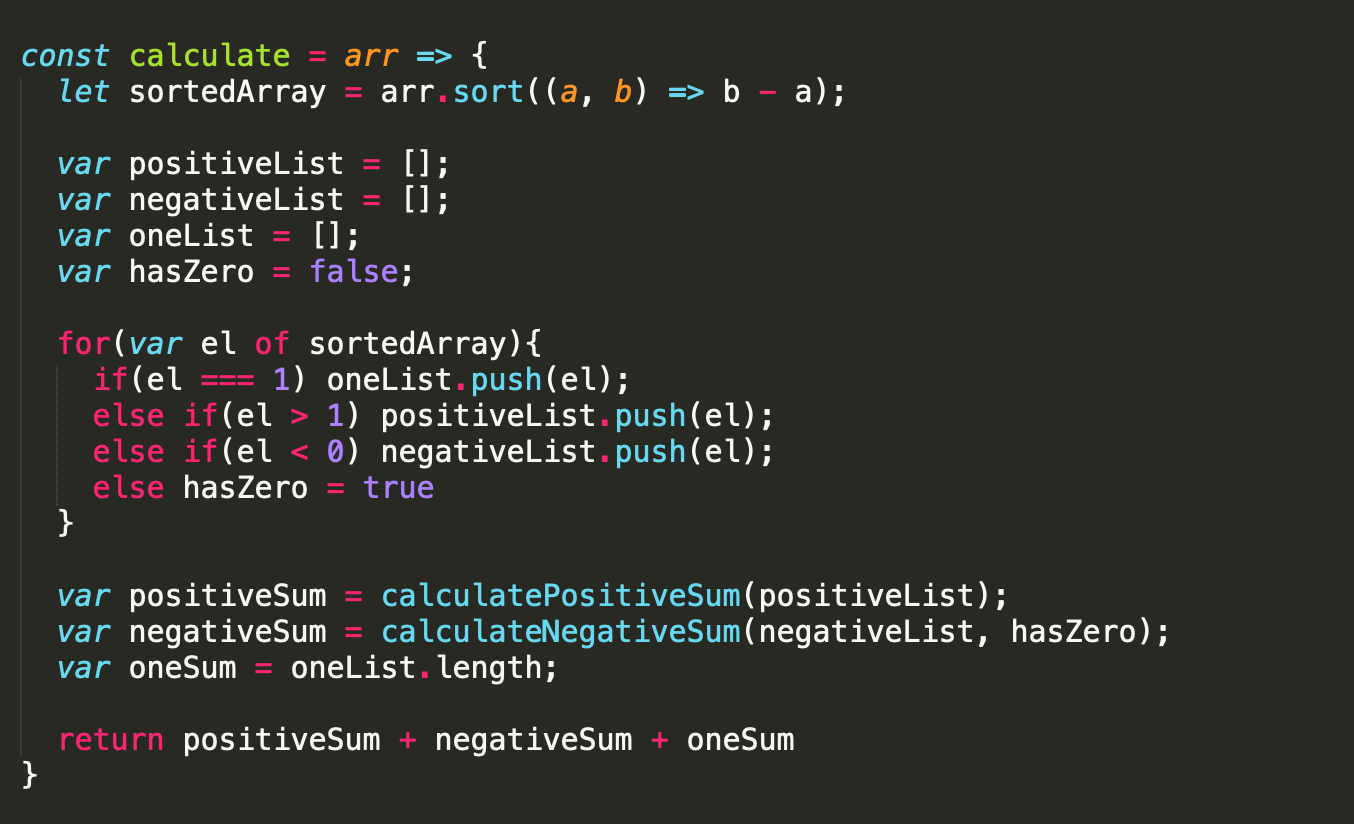
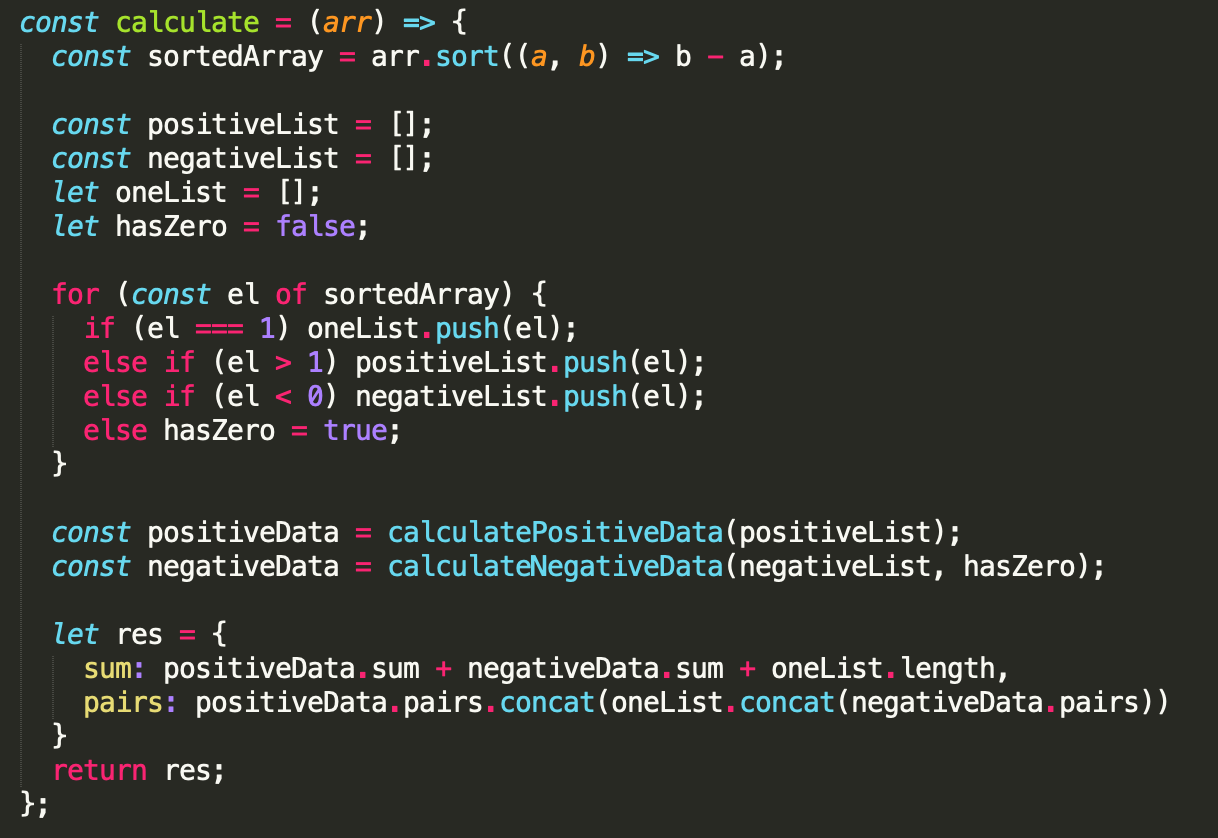
finished calculator

Changed region(s): [[0.0, 0.0, 0.9672, 0.8495], [0.0312, 0.8799, 0.5928, 0.9405], [0.0, 0.9405, 0.0312, 0.9709]]

diff --git a/src/data/solution.js b/src/data/solution.js
@@ -5,20 +5,31 @@ const solution = {
       title: 'Math',
       paragraphs: {
         p1: 'To solve this test I took in consideration some  math principles.',
-        p2: 'If C is a Positive Integer and C = (A x B), with A and B, both integers and greater than 1. Then, C >= A + B.',
-        p3: 'If A , B and C are both Positive Integers and A < B < C. Then (A x B) < ( B x C )',
-        p4: 'If A is a Positive Integer, A + 1 > (A x 1).',
-        p5: 'if A and B are Negative Numbers, C = A x B is a Positive Number',
-        p6: 'if A is a Negative Number, A * 0  > A . ',
+        p2: '1 - If C is a Positive Integer and C = (A x B), with A and B, both integers and greater than 1. Then, C >= A + B.',
+        p3: '2 - If A , B and C are both Positive Integers and A < B < C. Then (A x B) < ( B x C )',
+        p4: '3 - If A is a Positive Integer, A + 1 > (A x 1).',
+        p5: '4 - if A and B are Negative Numbers, C = A x B is a Positive Number',
+        p6: '5 - if A is a Negative Number, A * 0  > A . ',
       },
     },
     a2: {
+      title: 'Logic',
+      paragraphs: {
+        p0: 'The implementation of the algorithm is an abstraction to express the logic concieved. Here are the thoughs behind the proposed solution.',
+        p1: 'From principle 1 and 2 I took that, in order to maximize the sum, I have to make pairs and multiply the positive numbers from the greatest to the smallest',
+        p2: 'From principle 3 I took that is better to add a single element to 1 than to make a pair and multiply this element by one',
+        p3: 'From principle 4 I took that I should make pairs with the negative numbers, following the same logic used for the positive numbers. I should multiply them in order from greatest to the smallest in a perspective of total quantity or module ',
+        p4: 'From principle 5 I took that is better to multiply a negative by 0 than add them to the sum.',
+        p5: 'Basically the ideal solution should multiply the positive numbers in pairs from the greatests to the smallests, except for the number one which should be added to the sum by itself, and multiply the negative numbers in pairs as well as the positive ones, but thinking that if a single negative element is left unpaired to be added to the sum by itself, it is better to multiply by zero if zero is present on the list.',
+      },
+    },
+    a3: {
       title: 'Algorithm',
       subtitle: 'Calculate Function',
       img: 'images/calculateFunc.png',
       paragraphs: {
         p1: '1 - Given a list of integers the first step of the algorithm is sorting the list.',
-        p2: '2 - Second step is to create a boolean to track the presence of zero`s on the list, a counter for the presence of one`s, an array to store the positive integers greater than one and one array to store the negative integers.',
+        p2: '2 - Second step is to create a boolean to track the presence of zero`s on the list, a list for the presence of one`s, an array to store the positive integers greater than one and one array to store the negative integers.',
         p3: '3 - Then, third step is to loop through the sorted list and update the variables created.',
         p4: '4 - Call Function to calculate Positive Sum passing the positive numbers list as parameter',
         p5: '5 - Call Function  to calculate Negative Sum passing the negative numbers list and the has zero boolean as parameters',

diff --git a/src/data/instructions.js b/src/data/instructions.js
@@ -1,5 +1,6 @@
 const instructions = {
   title: 'Developer Coding Test',
+  subtitle: 'Instructions',
   paragraphs: {
     p1: 'You are given a list of integers, both positive and negative. Each integer in the list must either be paired with another element in the list or be a single element. Once the elements have been paired, the integers in the pairs are multiplied and the results are summed up - the sum will include the single elements.',
     p2: 'Write a program to find the sequence of pairs and singles which give the biggest possible sum.',

diff --git a/script/script.test.js b/script/script.test.js
@@ -26,6 +26,10 @@ describe('empty array and single element', () => {
 		expect(calculate([-12]).pairs).toEqual([-12]);
 	})
 
+	test('input = [-12, 0] -> pairs equals to (-12, 0)', () => {
+		expect(calculate([-12,0]).pairs).toEqual([[-12,0]])
+	})
+
 })
 
 describe('unordered positive Numbers with 1', () => {
@@ -98,4 +102,3 @@ describe('positive and negative numbers', () => {
   	expect(calculate([-4,-3,-2, 1, 2, 3, 4]).pairs).toEqual([ [ 4, 3 ], 2, 1, [ -3, -4 ], -2 ]);
 	});
 })
-

diff --git a/script/script.js b/script/script.js
@@ -153,7 +153,7 @@ const calculateNegativeData = (list, hasZero) => {
   
   if (!list.length) return {sum: 0, pairs: hasZero ? [0] : [] };
   if (list.length === 1) {
-    if(hasZero) return {sum: 0, pairs: [list[0], 0]}
+    if(hasZero) return {sum: 0, pairs: [[list[0], 0]]}
     else return {sum: list[0], pairs: [list[0]]};
   } 
 

diff --git a/src/app/components/atoms/Subtitle.jsx b/src/app/components/atoms/Subtitle.jsx
@@ -2,8 +2,8 @@ import styled from 'styled-components';
 
 const Subtitle = styled.div`
   margin: 60px auto;
-  font-size: 40px;
-  font-weight: 400;
+  font-size: 30px;
+  font-weight: 300;
 `;
 
 export default Subtitle;
